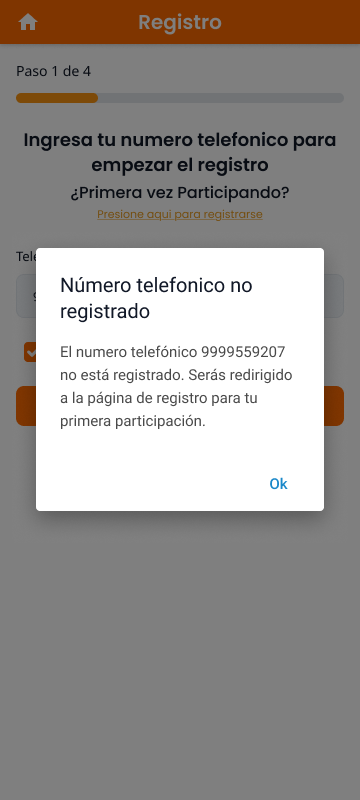
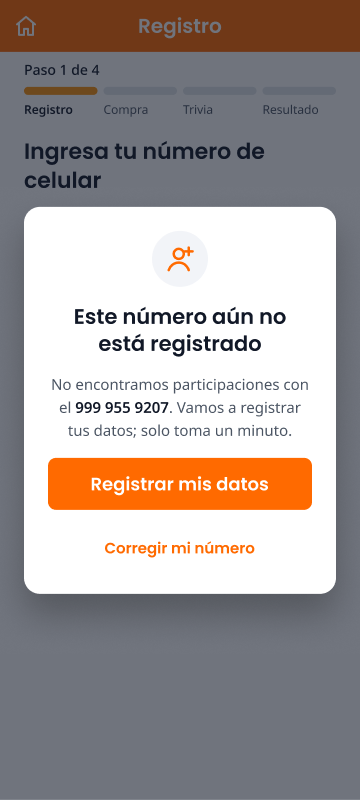
docs(design): actualizar capturas y matriz de pantallas al diseño v2
Claude-Session: https://claude.ai/code/session_01FofgjL8WUWVmE3APMLowNN

diff --git a/docs/design/screens.md b/docs/design/screens.md
@@ -2,8 +2,10 @@
 
 Inventario de las pantallas diseñadas en [Figma](https://www.figma.com/design/sVxsBw6xtnTPWCtjMJrPL7/Ven-al-Centro-y-Gana-%E2%80%93-Flujo-de-registro?node-id=0-1&t=DLfkUYIZnpshV6pP-0), su propósito y su correspondencia con los requisitos funcionales (RF) y las historias de usuario (HU).
 
-- **Formato de pantalla:** 360 × 800 px (móvil); la pantalla 04 mide 360 × 923 px porque tiene scroll.
+- **Versión del diseño:** 2.0 (segunda entrega).
+- **Formato de pantalla:** 360 × 800 px (móvil). Las pantallas 04 y 04b miden 360 × 1160 px porque tienen scroll.
 - **Etapas del flujo:** 1. Registro → 2. Datos de la compra → 3. Trivia → 4. Resultado.
+- **Total:** 17 pantallas (incluye estados de error, diálogos y paneles).
 
 ---
 
@@ -12,160 +14,134 @@ Inventario de las pantallas diseñadas en [Figma](https://www.figma.com/design/s
 ```mermaid
 flowchart TD
     A[01 · Inicio] -->|Comenzar| B[02 · Ingreso con teléfono]
-    A -.->|Bases / Comercios| L[12 · Capa extra]
-    B -->|Número registrado| E[05 · Datos de la compra]
-    B -->|Número no registrado| C[03 · Diálogo: número no registrado]
-    B -->|¿Primera vez? Regístrate| D[04 · Registro de nuevo participante]
-    C -->|Ok| D
-    D -->|¿Ya participaste? Continuar| B
-    D -->|Siguiente| E
-    E -->|Siguiente| F[06 · Trivia – instrucciones]
+    B -->|Número no válido| B2[02b · Teléfono con error]
+    B2 -->|Corrige| B
+    B -->|Número no registrado| C[03 · Número no registrado]
+    B -->|Número registrado| C2[03b · Usuario ya registrado]
+    B -->|Registrarme por primera vez| D[04 · Registro de datos]
+    C -->|Registrar mis datos| D
+    C -->|Corregir mi número| B
+    D -->|Datos con error| D2[04b · Registro con errores]
+    D2 -->|Corrige| D
+    D -->|Siguiente| E[05 · Datos de la compra]
+    C2 -->|Continuar| E
+    E -->|Toca la sucursal| E2[05b · Elegir sucursal]
+    E2 -->|Elige| E
+    E -->|Datos con error| E3[05c · Compra con errores]
+    E -->|Toma la foto| E4[05d · Foto tomada]
+    E4 -->|Siguiente| F[06 · Instrucciones de la trivia]
     F -->|Entendido| G[07 · Pregunta 1]
-    G --> H[08 · Pregunta 2]
-    H --> I[09 · Pregunta 3]
-    I -->|3 de 3 correctas| J[10 · Participación confirmada]
-    I -->|Alguna incorrecta| K[11 · Mejor suerte la próxima]
-    K -->|Volver a intentar| A
+    G -->|Siguiente pregunta| H[09 · Pregunta 3]
+    H -->|Pregunta anterior| G
+    H -->|3 de 3 correctas| J[10 · Respuestas correctas]
+    H -->|Alguna incorrecta| K[10b · Respuestas incorrectas]
+    J -->|Registrar otra compra| B
+    K -->|Registrar otra compra| B
+    J -->|Finalizar| A
+    K -->|Finalizar| A
+    X[Diálogo · Salir del registro] -.->|Salir al inicio| A
 ```
+
+> El diálogo **Salir del registro** aparece al tocar el ícono de inicio en cualquier pantalla del registro (RF-016).
 
 ---
 
 ## Matriz de correspondencia (pantalla ↔ requisito)
 
-| Pantalla | RF | HU | Estado |
-|---|---|---|---|
-| 01 · Inicio | RF-001, RF-002, RF-003 | HU-001, HU-002, HU-003 | ⚠ Falta la flecha de *scroll down* que pide RF-001 |
-| 02 · Ingreso con teléfono | RF-004-A, RF-004-B, RF-008 | HU-004-A, HU-004-B, HU-008 | ✅ |
-| 03 · Teléfono no registrado | RF-005 | HU-005 | ✅ |
-| 04 · Registro de nuevo participante | RF-006, RF-007, RF-008 | HU-006, HU-007, HU-008 | ✅ |
-| 05 · Datos de la compra (y estados) | RF-009, RF-010, RF-011 | HU-009, HU-010, HU-011 | ⚠ Falta un estado de foto ya tomada (vista previa) |
-| 06 · Trivia – instrucciones | RF-012 | HU-012 | ✅ |
-| 07–09 · Trivia – preguntas | RF-013 | HU-013 | ✅ |
-| 10 · Participación confirmada | RF-014 | HU-014 | ⚠ Falta mostrar el folio en pantalla |
-| 11 · Mejor suerte la próxima | RF-015 | HU-015 | ✅ |
-| 12 · Capa extra | RF-002, RF-003, RF-008 | HU-002, HU-003, HU-008 | Marcador de posición |
+| Pantalla | Captura | RF | HU | RNF |
+|---|---|---|---|---|
+| 01 · Inicio | [01-home.png](screens/01-home.png) | RF-001, RF-002, RF-003 | HU-001, HU-002, HU-003 | RNF-008 |
+| 02 · Ingreso con teléfono | [02-phone-login.png](screens/02-phone-login.png) | RF-004-A, RF-004-B | HU-004-A, HU-004-B | RNF-007, RNF-009 |
+| 02b · Teléfono con error | [02b-phone-error.png](screens/02b-phone-error.png) | RF-004-A, RF-021 | HU-004-A, HU-021 | RNF-010 |
+| 03 · Número no registrado | [03-phone-not-registered-dialog.png](screens/03-phone-not-registered-dialog.png) | RF-005 | HU-005 | — |
+| 03b · Usuario ya registrado | [03b-returning-user.png](screens/03b-returning-user.png) | RF-005 (A1) | HU-005 | RNF-011 |
+| Diálogo · Salir del registro | [exit-confirmation-dialog.png](screens/exit-confirmation-dialog.png) | RF-016 | HU-016 | RNF-003 |
+| 04 · Registro de nuevo participante | [04-new-participant-registration.png](screens/04-new-participant-registration.png) | RF-006, RF-007, RF-008, RF-004-B (A2) | HU-006, HU-007, HU-008 | RNF-002, RNF-009 |
+| 04b · Registro con errores | [04b-registration-errors.png](screens/04b-registration-errors.png) | RF-006, RF-008, RF-021 | HU-006, HU-008, HU-021 | RNF-010 |
+| 05 · Datos de la compra | [05-purchase-data.png](screens/05-purchase-data.png) | RF-009, RF-010, RF-011 | HU-009, HU-010, HU-011 | RNF-009 |
+| 05b · Elegir sucursal | [05b-branch-search.png](screens/05b-branch-search.png) | RF-017, RF-002 (A2) | HU-017, HU-002 | RNF-004 |
+| 05c · Compra con errores | [05c-purchase-data-errors.png](screens/05c-purchase-data-errors.png) | RF-009, RF-010, RF-011, RF-021 | HU-009, HU-010, HU-011, HU-021 | RNF-010 |
+| 05d · Compra completa (foto tomada) | [05d-purchase-data-photo-taken.png](screens/05d-purchase-data-photo-taken.png) | RF-018 | HU-018 | — |
+| 06 · Instrucciones de la trivia | [06-trivia-instructions.png](screens/06-trivia-instructions.png) | RF-012 | HU-012 | RNF-006, RNF-012 |
+| 07 · Pregunta 1 | [07-trivia-question-1.png](screens/07-trivia-question-1.png) | RF-013, RF-019 | HU-013, HU-019 | RNF-006, RNF-008 |
+| 09 · Pregunta 3 | [09-trivia-question-3.png](screens/09-trivia-question-3.png) | RF-013, RF-019 | HU-013, HU-019 | RNF-006 |
+| 10 · Respuestas correctas | [10-result-correct.png](screens/10-result-correct.png) | RF-014, RF-020 | HU-014, HU-020 | RNF-011 |
+| 10b · Respuestas incorrectas | [10b-result-incorrect.png](screens/10b-result-incorrect.png) | RF-015, RF-020 | HU-015, HU-020 | RNF-011 |
 
-Todas las pantallas se diseñaron con un ancho de 360 px, el mínimo que exige **RNF-001** (portabilidad), y siguen las pautas de usabilidad de **RNF-002 a RNF-006**.
+**Cobertura:** las 17 pantallas cubren los 22 requisitos funcionales (RF-001 a RF-021). RNF-001 (diseño responsivo) y RNF-005 (contraste) aplican a todas las pantallas.
+
+**La pantalla de la pregunta 2 no se diseñó por separado**, porque es igual a la pregunta 1 con otro texto.
 
 ---
 
 ## Detalle por pantalla
 
-### 01 · Inicio
-<img src="screens/01-home.png" width="260" alt="Pantalla de inicio con logo, pasos para participar y botón Comenzar">
+### 1 · Inicio e identificación
 
-**Propósito:** explicar la campaña en segundos y llevar al usuario al botón "Comenzar".
-- Logo de la campaña y título: "Convierte tus compras en recompensas".
-- **Tres pasos ilustrados con íconos:** registrar datos, subir la foto del ticket y responder la trivia.
-- Texto con la regla principal: compras de $200 o más.
-- Botón **"Comenzar"** destacado (amarillo, 44 px de alto, ancho completo).
-- Enlaces a las bases y a la lista de comercios participantes.
+<img src="screens/01-home.png" width="200" alt="Pantalla de inicio"> <img src="screens/02-phone-login.png" width="200" alt="Ingreso con teléfono"> <img src="screens/02b-phone-error.png" width="200" alt="Teléfono con error">
 
-**Problema que resuelve:** en la prueba de campo, las personas de 60 a 70 años no encontraban el botón "Comenzar" (RF-001).
+- **01 · Inicio:** logo, título "Convierte tus compras en premios", 3 pasos numerados, recuadro de compra mínima de $200, indicador "Toca aquí para empezar" con flecha, botón "Comenzar" y enlaces "Ver bases" y "Ver comercios".
+- **02 · Ingreso con teléfono:** "Paso 1 de 4", campo con prefijo "+52" y contador de dígitos, botón "Siguiente" y botón "Registrarme por primera vez".
+- **02b · Teléfono con error:** borde rojo y el mensaje "El número es muy corto. Te faltan 2 dígitos."
 
----
+<img src="screens/03-phone-not-registered-dialog.png" width="200" alt="Número no registrado"> <img src="screens/03b-returning-user.png" width="200" alt="Usuario ya registrado"> <img src="screens/exit-confirmation-dialog.png" width="200" alt="Diálogo para salir del registro">
 
-### 02 · Ingreso con teléfono
-<img src="screens/02-phone-login.png" width="260" alt="Pantalla para ingresar el número telefónico">
+- **03 · Número no registrado:** ventana emergente con los botones "Registrar mis datos" y "Corregir mi número".
+- **03b · Usuario ya registrado:** "¡Hola de nuevo, Juan Carlos!" con el número enmascarado y el botón "Continuar".
+- **Diálogo · Salir del registro:** "¿Quieres salir del registro?" con los botones "Seguir con mi registro" y "Salir al inicio".
 
-**Propósito:** identificar si el concursante ya está registrado.
-- Indicador **Paso 1 de 4**.
-- Campo "Teléfono" y casilla de aceptación del aviso de privacidad.
-- Botón "Siguiente" **deshabilitado** hasta que el formulario sea válido.
-- Enlace "¿Primera vez participando? Presione aquí para registrarse" (RF-004-B).
+### 2 · Registro de datos
 
----
+<img src="screens/04-new-participant-registration.png" width="200" alt="Registro de datos personales"> <img src="screens/04b-registration-errors.png" width="200" alt="Registro con errores">
 
-### 03 · Teléfono no registrado (diálogo)
-<img src="screens/03-phone-not-registered-dialog.png" width="260" alt="Diálogo de número telefónico no registrado">
+- **04 · Registro de nuevo participante:** seis campos con ejemplos dentro ("Ej.: …"), celular prellenado, casilla del aviso de privacidad y enlace "¿Ya participaste antes? Ingresa con tu número".
+- **04b · Registro con errores:** resumen "Revisa 3 datos marcados en rojo para continuar." y un mensaje específico en cada campo con error.
 
-**Propósito:** avisar que el número no existe y redirigir al registro (RF-005).
-- Overlay oscuro sobre la pantalla 02.
-- El mensaje muestra el número ingresado, para que el usuario verifique si se equivocó.
-- Una sola acción: "Ok".
+### 3 · Datos de la compra
 
----
+<img src="screens/05-purchase-data.png" width="200" alt="Datos de la compra"> <img src="screens/05b-branch-search.png" width="200" alt="Buscador de sucursal"> <img src="screens/05c-purchase-data-errors.png" width="200" alt="Compra con errores"> <img src="screens/05d-purchase-data-photo-taken.png" width="200" alt="Foto del ticket tomada">
 
-### 04 · Registro de nuevo participante
-<img src="screens/04-new-participant-registration.png" width="260" alt="Formulario de registro de datos personales">
+- **05 · Datos de la compra:** campo de sucursal, monto con "$" y "MXN" y la ayuda de compra mínima, instrucción y botón para tomar la foto.
+- **05b · Elegir sucursal:** panel inferior con buscador, conteo de resultados, nombre y dirección de cada sucursal, y enlace a la lista de comercios.
+- **05c · Compra con errores:** resumen de errores, "Campo obligatorio", monto mínimo y foto faltante.
+- **05d · Foto tomada:** vista previa con "Foto lista" y "Volver a tomar".
 
-**Propósito:** capturar los datos personales (RF-006).
-- Seis campos: nombre(s), primer apellido, segundo apellido, teléfono, correo electrónico y domicilio.
-- **Ejemplos junto a cada etiqueta** (por ejemplo "Ej.: Juan Carlos"), como pide RF-007.
-- Aviso de privacidad con enlace y casilla (RF-008).
-- Enlace de regreso: "¿Ya ha participado antes? Presione aquí para continuar".
+### 4 · Trivia y resultado
 
----
+<img src="screens/06-trivia-instructions.png" width="200" alt="Instrucciones de la trivia"> <img src="screens/07-trivia-question-1.png" width="200" alt="Pregunta 1"> <img src="screens/09-trivia-question-3.png" width="200" alt="Pregunta 3">
 
-### 05 · Datos de la compra
-<img src="screens/05-purchase-data.png" width="260" alt="Formulario de datos de la compra"> <img src="screens/05b-purchase-data-branch-dropdown.png" width="260" alt="Selector de sucursal desplegado"> <img src="screens/05c-purchase-data-validation-errors.png" width="260" alt="Errores de validación en datos de la compra">
+- **06 · Instrucciones:** "Paso 3 de 4", tres reglas numeradas, la nota sobre el tiempo y los reintentos, y el botón "Entendido".
+- **07 · Pregunta 1:** contador "Pregunta 1 de 3", opciones como tarjetas (la elegida con borde naranja) y el botón "Siguiente pregunta".
+- **09 · Pregunta 3:** enlace "Pregunta anterior" y botón "Terminar trivia".
 
-**Propósito:** registrar la sucursal, el monto y la foto del ticket.
-- **Paso 2 de 4** y botón "Regresar".
-- Selector de sucursal (RF-009). El estado desplegado muestra la lista de sucursales.
-- Campo de monto (RF-010) con validación: *"El monto mínimo para participar es de $200"*.
-- Mensaje *"Campo obligatorio"* cuando no se selecciona sucursal.
-- Botón con ícono **"Tomar foto del ticket"** (RF-011).
+<img src="screens/10-result-correct.png" width="200" alt="Participación confirmada"> <img src="screens/10b-result-incorrect.png" width="200" alt="Respuestas incorrectas">
 
-**Estados diseñados:** vacío, selector desplegado y errores de validación.
+- **10 · Respuestas correctas:** "¡Participación confirmada!" y la tarjeta "Revisa tu celular y tu correo". El folio se envía por SMS y correo; no se muestra en pantalla.
+- **10b · Respuestas incorrectas:** "¡Gracias por participar!" y la tarjeta "Puedes participar otra vez".
+- Ambas pantallas tienen los botones "Finalizar" y "Registrar otra compra".
 
 ---
 
-### 06 · Trivia – instrucciones
-<img src="screens/06-trivia-instructions.png" width="260" alt="Instrucciones de la trivia">
+## Evolución del diseño (versión 1 → versión 2)
 
-**Propósito:** preparar al usuario antes de la trivia (RF-012).
-- **Paso 3 de 4**, título "Contesta la Trivia" e instrucción en lenguaje simple.
-- Botón "Entendido" y botón "Regresar".
-
----
-
-### 07–09 · Trivia – preguntas 1, 2 y 3
-<img src="screens/07-trivia-question-1.png" width="260" alt="Pregunta 1 de la trivia">
-
-**Propósito:** responder las 3 preguntas de opción múltiple (RF-013).
-- Contador visible: "Pregunta 1 de 3".
-- Pregunta en tipografía grande (Poppins SemiBold).
-- Tres opciones tipo *radio* con área táctil de 48 px.
-- Preguntas redactadas en **lectura fácil** (RNF-006), por ejemplo "¿Qué usamos para cortar papel?".
-
-| Pantalla | Pregunta | Captura |
+| Aspecto | Versión 1 | Versión 2 |
 |---|---|---|
-| 07 | ¿Qué animal es conocido por tener una trompa larga? | `screens/07-trivia-question-1.png` |
-| 08 | ¿Qué usamos para cortar papel? | `screens/08-trivia-question-2.png` *(pendiente de exportar)* |
-| 09 | En la explanada del parque de la… | `screens/09-trivia-question-3.png` *(pendiente de exportar)* |
+| Pantallas | 12 pantallas y 3 estados | 17 pantallas, con estados de error, diálogos y panel de búsqueda |
+| Botón "Regresar" | Botón naranja relleno | Enlace de texto arriba, con menor énfasis (RNF-003) |
+| Indicador de paso | Barra única | Barra de 4 etapas con nombre y ✓ (RNF-007) |
+| Ejemplos de los campos | Junto a la etiqueta, en gris muy claro | Dentro del campo, "Ej.: …" (RNF-002) |
+| Errores | Texto suelto en algunas pantallas | Borde rojo, ícono, mensaje específico y resumen (RF-021, RNF-010) |
+| Selección de sucursal | Lista desplegable vacía | Panel con buscador (RF-017) |
+| Foto del ticket | Solo el botón | Instrucción y vista previa (RF-018) |
+| Trivia | Opciones tipo radio | Tarjetas con contador y navegación (RF-019, RNF-006) |
+| Resultado | Folio pendiente y botón "Volver a participar" | Aviso de envío por SMS y correo, "Finalizar" y "Registrar otra compra" (RF-014, RF-020) |
+| Pendientes de la versión 1 | Sin flecha en el inicio, sin vista previa de la foto | Resueltos |
 
 ---
 
-### 10 · Participación confirmada
-*Captura pendiente de exportar como `screens/10-participation-confirmed.png`.*
+## Pendientes del diseño
 
-**Propósito:** confirmar el registro exitoso (RF-014).
-- Ícono de éxito (check) y título "Participación Confirmada".
-- Mensaje de felicitación por responder correctamente la trivia.
-- Aviso de que se envió un mensaje de texto con el folio.
-- Botón para volver al inicio.
-
----
-
-### 11 · Mejor suerte la próxima
-*Captura pendiente de exportar como `screens/11-better-luck-next-time.png`.*
-
-**Propósito:** cerrar el flujo cuando falla la trivia, sin frustrar al usuario (RF-015).
-- Ícono de error (x) y título "¡Gracias por participar!".
-- Explica que no respondió correctamente todas las preguntas.
-- Indica que puede volver a intentarlo usando el mismo número telefónico.
-- Botón para reintentar.
-
----
-
-### 12 · Capa extra
-*Captura pendiente de exportar como `screens/12-extra-layer.png`.*
-
-**Propósito:** marcador de posición para el contenido externo: bases para participar, avisos de privacidad y sucursales participantes.
-
----
-
-## Iteraciones registradas en Figma
-
-En el archivo hay **tres versiones de la pantalla 05 · Datos de la compra**. Muestran cómo evolucionó la colocación de los mensajes de error: primero se superponían al campo y después se integraron en el flujo del formulario, con espacio propio. Esto sirve como evidencia del refinamiento del diseño.
+- [ ] Corregir la errata de la pantalla 10b: "regist**rado** otro ticket" → "regist**rando** otro ticket".
+- [ ] Ajustar el contraste del texto blanco sobre los botones naranjas y amarillos (RNF-005; ver [guía de diseño](design-guide.md), sección 2.3).
+- [ ] Enlazar las pantallas en Figma como prototipo navegable, para la simulación de tarea con el cliente.
+- [ ] Validar el diseño con CANACO SERVYTUR y registrar sus comentarios.

diff --git a/docs/design/README.md b/docs/design/README.md
@@ -36,23 +36,17 @@ Se construyó una biblioteca de componentes reutilizables con variantes, para qu
 
 Además se definieron **variables de color y estilos de texto** (tokens). Están documentados en la [guía de diseño](design-guide.md).
 
-### 2. Pantallas del flujo
-Se diseñaron **12 pantallas principales y 3 estados adicionales**, que cubren desde la pantalla de inicio hasta la confirmación de la participación:
+### 2. Pantallas del flujo (versión 2)
+A partir de los requisitos versión 2.0 (RF-001 a RF-021 y RNF-001 a RNF-012), el diseño se amplió a **17 pantallas**, organizadas en las 4 etapas del flujo:
 
-1. Inicio
-2. Ingreso con teléfono
-3. Teléfono no registrado (diálogo)
-4. Registro de nuevo participante
-5. Datos de la compra (más 3 estados: selector desplegado, errores de validación y una iteración previa)
-6. Trivia – instrucciones
-7. Trivia – pregunta 1
-8. Trivia – pregunta 2
-9. Trivia – pregunta 3
-10. Participación confirmada
-11. Mejor suerte la próxima
-12. Capa extra (bases, avisos de privacidad y sucursales)
+| Etapa | Pantallas |
+|---|---|
+| 1. Inicio e identificación | 01 · Inicio, 02 · Ingreso con teléfono, 02b · Teléfono con error, 03 · Número no registrado, 03b · Usuario ya registrado, Diálogo · Salir del registro |
+| 2. Registro de datos | 04 · Registro de nuevo participante, 04b · Registro con errores |
+| 3. Datos de la compra | 05 · Datos de la compra, 05b · Elegir sucursal, 05c · Compra con errores, 05d · Compra completa (foto tomada) |
+| 4. Trivia y resultado | 06 · Instrucciones, 07 · Pregunta 1, 09 · Pregunta 3, 10 · Respuestas correctas, 10b · Respuestas incorrectas |
 
-El detalle de cada pantalla y su correspondencia con los requisitos está en **[screens.md](screens.md)**.
+El detalle de cada pantalla, su correspondencia con los requisitos y la comparación con la versión 1 están en **[screens.md](screens.md)**.
 
 ### 3. Guía de diseño
 Se documentaron los fundamentos visuales del rediseño: color, tipografía, espaciado, componentes, accesibilidad y redacción. Ver **[design-guide.md](design-guide.md)**.
@@ -66,7 +60,5 @@ Se documentaron los fundamentos visuales del rediseño: color, tipografía, espa
 | [`README.md`](README.md) | Este documento: enlace al diseño y resumen del trabajo |
 | [`screens.md`](screens.md) | Inventario de pantallas, flujo de navegación y correspondencia con RF/HU |
 | [`design-guide.md`](design-guide.md) | Guía de diseño (tokens, componentes, accesibilidad, UX writing) |
-| [`components.png`](components.png) | Captura de la biblioteca de componentes |
-| [`screens/`](screens) | Capturas de las pantallas exportadas desde Figma |
-
-> **Nota:** las capturas de las pantallas 08 a 12 aún no están en `screens/`. Para agregarlas, en Figma selecciona el frame, ve a **Export → PNG** y guárdalo con el nombre indicado en [screens.md](screens.md).
+| [`components.png`](components.png) | Captura de la biblioteca de componentes (versión 1) |
+| [`screens/`](screens) | Capturas de las 17 pantallas de la versión 2, exportadas desde Figma |
